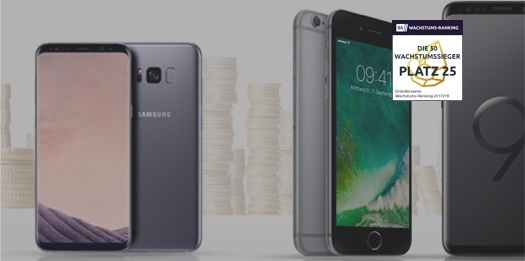
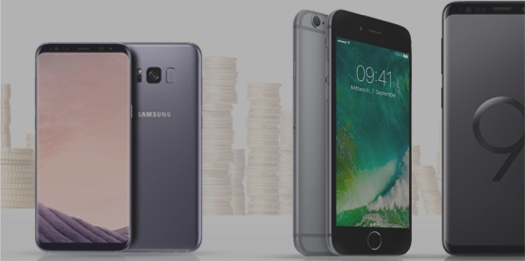
Extract badge for mySwoop card

Changed region(s): [[0.7314, 0.0613, 0.8838, 0.3985]]

diff --git a/app/data/etoCompanies.ts b/app/data/etoCompanies.ts
@@ -14,6 +14,8 @@ import * as emfluxhover from "../assets/img/eto_offers/emfluxhover@1x.jpg";
 import * as emflux2hover from "../assets/img/eto_offers/emfluxhover@2x.jpg";
 import * as myswoop from "../assets/img/eto_offers/myswoop@1x.jpg";
 import * as myswoop2 from "../assets/img/eto_offers/myswoop@2x.jpg";
+import * as myswoopbadge from "../assets/img/eto_offers/myswoopbadge@1x.jpg";
+import * as myswoopbadge2 from "../assets/img/eto_offers/myswoopbadge@2x.jpg";
 import * as myswoophover from "../assets/img/eto_offers/myswoophover@1x.jpg";
 import * as myswoop2hover from "../assets/img/eto_offers/myswoophover@2x.jpg";
 import * as nextbigthing from "../assets/img/eto_offers/nextbigthing@1x.jpg";
@@ -129,6 +131,11 @@ export const etoCompaniesCards: Array<EtoData> = [
       quoteImage: {
         src: myswoophover,
         srcSet: `${myswoophover} 1x, ${myswoop2hover} 2x`,
+        alt: "",
+      },
+      badge: {
+        src: myswoopbadge,
+        srcSet: `${myswoopbadge} 1x, ${myswoopbadge2} 2x`,
         alt: "",
       },
       to: "http://www.myswooop.de/",

diff --git a/app/components/shared/EtoOfferingCard.tsx b/app/components/shared/EtoOfferingCard.tsx
@@ -26,6 +26,7 @@ export interface IEtoOfferingProps {
   logo?: string;
   topImage: IResponsiveImage;
   quoteImage?: IResponsiveImage;
+  badge?: IResponsiveImage;
   quoteBackground?: string;
   quoteColor?: string;
   className?: string;
@@ -55,6 +56,14 @@ export const EtoOfferingCard: React.SFC<IEtoOfferingProps> = props => {
     <a href={props.to} target="_blank" className={cn(styles.card, props.className)}>
       <Proportion width={100} height={50}>
         <div className={styles.top}>
+          {props.badge && (
+            <img
+              className={styles.badge}
+              src={props.badge.src}
+              srcSet={props.badge.srcSet}
+              alt={props.badge.alt}
+            />
+          )}
           {props.topImage && (
             <img
               className={styles.image}

diff --git a/app/components/shared/EtoOfferingCard.module.scss b/app/components/shared/EtoOfferingCard.module.scss
@@ -50,6 +50,10 @@ $card-heigh: px-to-rem(440px);
       .quote {
         display: flex;
       }
+
+      .badge {
+        z-index: $z-index-under-base;
+      }
     }
   }
 }
@@ -65,6 +69,13 @@ $card-heigh: px-to-rem(440px);
       line-height: px-to-rem(16px);
     }
   }
+}
+
+.badge {
+  position: absolute;
+  top: px-to-rem(10px);
+  right: px-to-rem(10px);
+  z-index: $z-index-base;
 }
 
 .top {
